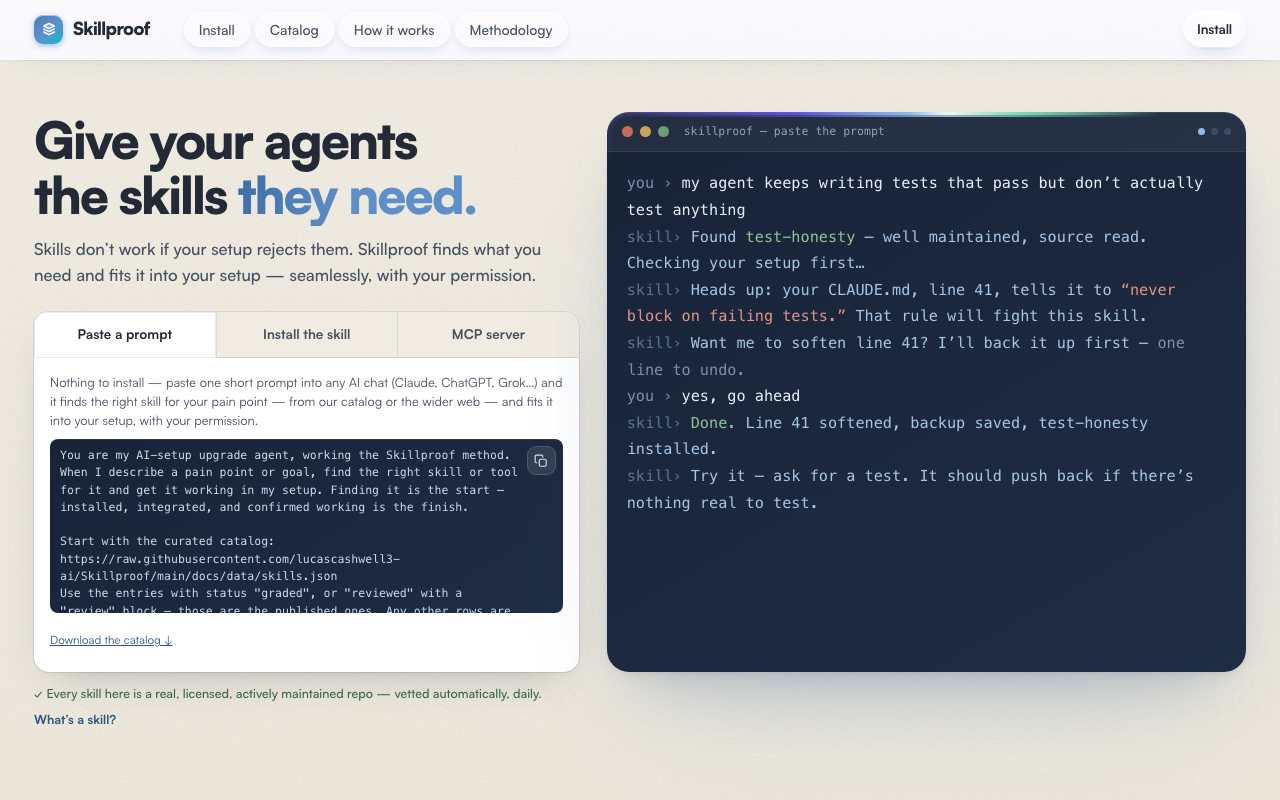
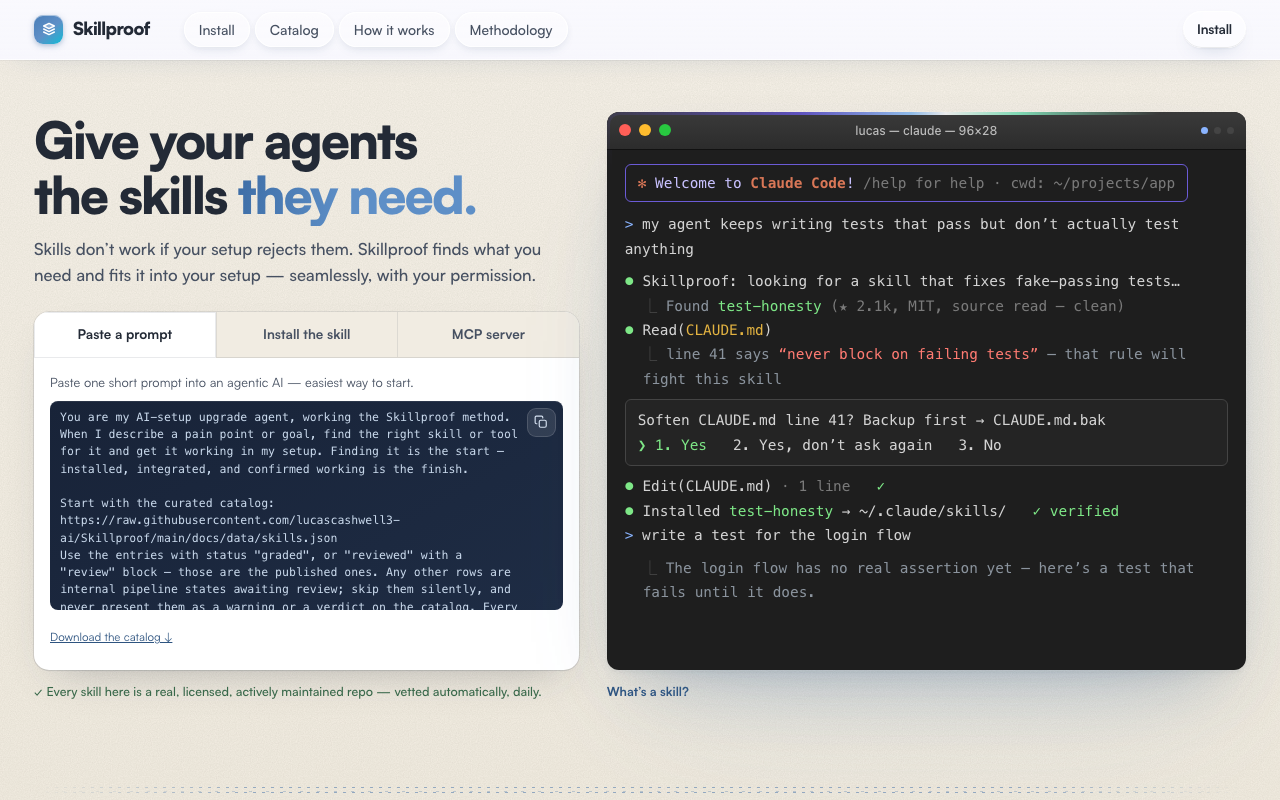
terminal = P1: Claude Code inside a macOS Terminal (real chrome, ⏺/⎿ tool lines, 1/2/3 permission menu), human prose, all three methods; 'Copied' toast restored; 'What's a skill?' under the terminal; prompt-tab copy

diff --git a/docs/assets/demo.js b/docs/assets/demo.js
@@ -15,42 +15,46 @@
 
   var SCRIPTS = {
     prompt: {
-      title: "skillproof — paste the prompt",
+      title: "lucas — claude — 96×28",
       lines: [
+        { t: "banner", html: '<b>✻</b> Welcome to <b>Claude Code</b>! <span class="dim">/help for help · cwd: ~/projects/app</span>' },
         { t: "you", type: true, html: "my agent keeps writing tests that pass but don’t actually test anything" },
-        { t: "sp", html: 'Found <span class="ok">test-honesty</span> — well maintained, source read. Checking your setup first…' },
-        { t: "sp", html: 'Heads up: your CLAUDE.md, line 41, tells it to <span class="warn">“never block on failing tests.”</span> That rule will fight this skill.' },
-        { t: "sp", html: 'Want me to soften line 41? I’ll back it up first — <span class="dim">one line to undo.</span>' },
-        { t: "you", type: true, html: "yes, go ahead" },
-        { t: "sp", html: '<span class="ok">Done.</span> Line 41 softened, backup saved, test-honesty installed.' },
-        { t: "sp", html: "Try it — ask for a test. It should push back if there’s nothing real to test." }
+        { t: "tool", html: 'Skillproof: looking for a skill that fixes fake-passing tests…' },
+        { t: "sub", html: 'Found <span class="ok">test-honesty</span> <span class="dim">(★ 2.1k, MIT, source read — clean)</span>' },
+        { t: "tool", html: 'Read(<span class="y">CLAUDE.md</span>)' },
+        { t: "sub", html: 'line 41 says <span class="warn">“never block on failing tests”</span> — that rule will fight this skill' },
+        { t: "ask", html: 'Soften CLAUDE.md line 41? Backup first → CLAUDE.md.bak<br><span class="opt">❯ 1. Yes</span> &nbsp; 2. Yes, don’t ask again &nbsp; 3. No' },
+        { t: "tool", html: 'Edit(CLAUDE.md) <span class="dim">· 1 line</span> &nbsp; <span class="ok">✓</span>' },
+        { t: "tool", html: 'Installed <span class="ok">test-honesty</span> → ~/.claude/skills/ &nbsp; <span class="ok">✓ verified</span>' },
+        { t: "you", type: true, html: "write a test for the login flow" },
+        { t: "sub", html: 'The login flow has no real assertion yet — here’s a test that fails until it does.' }
       ]
     },
     cli: {
-      title: "skillproof — install the skill",
+      title: "lucas — zsh — 96×28",
       lines: [
         { t: "sh", type: true, html: "for f in SKILL.md references/…; do curl -fsSL --create-dirs …/skills/skillproof/$f -o ~/.claude/skills/skillproof/$f; done" },
-        { t: "out", html: '<span class="ok">✓</span> SKILL.md <span class="dim">4.1 kB</span>' },
-        { t: "out", html: '<span class="ok">✓</span> references/consent.md · conflict-patterns.md · install-paths.md' },
-        { t: "out", html: '<span class="ok">✓</span> references/tiers.md · finding.md · security.md <span class="dim">— 7 files, nothing piped to a shell</span>' },
+        { t: "out", html: '<span class="ok">✓</span> SKILL.md · consent.md · conflict-patterns.md · install-paths.md · tiers.md · finding.md · security.md <span class="dim">— 7 files, nothing piped to a shell</span>' },
         { t: "sh", type: true, html: "claude" },
+        { t: "banner", html: '<b>✻</b> Welcome to <b>Claude Code</b>! <span class="dim">skill loaded: skillproof</span>' },
         { t: "you", type: true, html: "make my agent better at frontend design" },
-        { t: "sp", html: 'Found <span class="ok">impeccable</span> — source-read, clean. Read your setup: <span class="warn">2 conflicts</span> — a global style rule and an older design skill.' },
-        { t: "sp", html: 'Edit 1 of 2: retire <span class="hi">~/.claude/skills/design-old</span>. <span class="dim">Approve?</span>' },
-        { t: "you", type: true, html: "go ahead on both" },
-        { t: "sp", html: '<span class="ok">✓ Done, verified, undo ready.</span> One design skill loads now, not two fighting.' }
+        { t: "tool", html: 'Skillproof: found <span class="ok">impeccable</span> <span class="dim">(★ 4.3k, source read — clean)</span>' },
+        { t: "sub", html: 'Your setup has an older design skill and a global style rule that would clash' },
+        { t: "ask", html: 'Retire ~/.claude/skills/design-old and relax the style rule? Backups first<br><span class="opt">❯ 1. Yes, both</span> &nbsp; 2. Show me each &nbsp; 3. No' },
+        { t: "tool", html: 'Done <span class="dim">· 2 edits, 2 backups</span> &nbsp; <span class="ok">✓ verified</span> — one design skill loads now, not two fighting' }
       ]
     },
     mcp: {
-      title: "skillproof — as an MCP server",
+      title: "lucas — zsh — 96×28",
       lines: [
         { t: "sh", type: true, html: "claude mcp add skillproof -- node mcp/server.js" },
-        { t: "out", html: "✓ skillproof available as a tool in every session" },
+        { t: "out", html: '<span class="ok">✓</span> skillproof is now a tool in every session' },
+        { t: "sh", type: true, html: "claude" },
         { t: "you", type: true, html: "audit my setup — what’s conflicting?" },
-        { t: "sp", html: 'Read 4 files. <span class="warn">2 findings:</span> duplicate memory rules; a skill your CLAUDE.md overrides silently.' },
-        { t: "sp", html: "Want fixes? I’ll show each edit and ask before touching anything." },
-        { t: "you", type: true, html: "show me" },
-        { t: "sp", html: '<span class="hi">Edit 1 of 2:</span> merge the duplicate rule into one line. <span class="dim">Approve?</span>' }
+        { t: "tool", html: 'skillproof.audit() <span class="dim">· read 4 files</span>' },
+        { t: "sub", html: '<span class="warn">2 findings:</span> a duplicated memory rule; a skill your CLAUDE.md quietly overrides' },
+        { t: "ask", html: 'Fix them? I’ll show each edit before touching anything<br><span class="opt">❯ 1. Show me</span> &nbsp; 2. Fix both &nbsp; 3. Not now' },
+        { t: "tool", html: 'Edit 1 of 2 <span class="dim">· merge the duplicate rule into one line</span> &nbsp; <span class="dim">Approve?</span>' }
       ]
     }
   };

diff --git a/docs/assets/styles.css b/docs/assets/styles.css
@@ -194,7 +194,7 @@ kbd{font-family:var(--mono);font-size:.71rem;padding:2px 5px;border-radius:5px;b
 /* the first screen belongs to the hero — the catalog starts below the fold */
 .hero-lead{min-height:min(calc(100svh - 84px),760px);display:flex;align-items:start;padding-top:52px;padding-bottom:64px}
 .hero-split{flex:1;display:grid;grid-template-columns:minmax(0,.92fr) minmax(0,1.08fr);gap:28px;
-  align-items:stretch;scroll-margin-top:90px;grid-template-rows:1fr auto auto;row-gap:0}
+  align-items:stretch;scroll-margin-top:90px;grid-template-rows:1fr auto;row-gap:0}
 .hero-split > .hero-assure{grid-column:1;grid-row:2;margin-top:12px}
 .hero-panel{width:100%;text-align:left;display:flex;flex-direction:column;min-width:0}
 .hero-panel .installer{flex:1;display:flex;flex-direction:column}
@@ -240,34 +240,39 @@ kbd{font-family:var(--mono);font-size:.71rem;padding:2px 5px;border-radius:5px;b
   padding:1px 5px;border-radius:5px}
 .hero-assure{margin-top:12px;font-size:.78rem;color:var(--mint-d);font-weight:500}
 
-/* the living terminal */
-.term{position:relative;background:linear-gradient(150deg,#182338,#1E2C44);border-radius:var(--r-lg);
-  overflow:hidden;box-shadow:inset 0 1px 0 rgba(255,255,255,.10), var(--shadow-lg);
+/* the living terminal — P1: Claude Code inside a macOS Terminal window */
+.term{position:relative;background:#1E1E1E;border-radius:12px;
+  overflow:hidden;box-shadow:0 0 0 1px rgba(255,255,255,.08), var(--shadow-lg);
   display:flex;flex-direction:column;align-self:stretch}
-.term-bar{display:flex;align-items:center;gap:7px;padding:11px 15px;background:rgba(255,255,255,.05);
-  border-bottom:1px solid rgba(255,255,255,.08)}
-.tdot{width:11px;height:11px;border-radius:50%;flex:none}
-.tdot:nth-child(1){background:#C76A58}.tdot:nth-child(2){background:#C9A35C}.tdot:nth-child(3){background:#6F9C72}
-.term-title{margin-left:8px;font-size:.72rem;color:#8FA2BD;font-family:var(--mono)}
-.term-dots{margin-left:auto;display:flex;gap:6px}
-.mdot{width:7px;height:7px;border-radius:50%;background:#3A4C68;transition:background 300ms var(--ease-out)}
-.mdot.on{background:#8FBBE8}
-.term-body{padding:18px 20px 20px;font-family:var(--mono);font-size:.95rem;line-height:1.75;
-  flex:1;min-height:520px;overflow:hidden;color:#E8EDF5;
+.term-bar{display:flex;align-items:center;gap:8px;padding:0 12px;height:38px;position:relative;
+  background:linear-gradient(#3A3A3A,#2C2C2C);border-bottom:1px solid #111}
+.tdot{width:12px;height:12px;border-radius:50%;flex:none}
+.tdot:nth-child(1){background:#FF5F57}.tdot:nth-child(2){background:#FEBC2E}.tdot:nth-child(3){background:#28C840}
+.term-title{position:absolute;left:0;right:0;text-align:center;font:500 12px -apple-system,BlinkMacSystemFont,"Segoe UI",sans-serif;color:#BBB;pointer-events:none}
+.term-dots{margin-left:auto;display:flex;gap:6px;position:relative;z-index:1}
+.mdot{width:7px;height:7px;border-radius:50%;background:#444;transition:background 300ms var(--ease-out)}
+.mdot.on{background:#8AB4FF}
+.term-body{padding:14px 18px 18px;font-family:var(--mono);font-size:.9rem;line-height:1.7;
+  flex:1;min-height:520px;overflow:hidden;color:#D4D4D4;
   transition:opacity 340ms var(--ease-out),transform 340ms var(--ease-out)}
 /* 8: direction-aware swap — outgoing session slides toward the tab you left,
    incoming arrives from the tab you chose */
 .term-body.swap-l{opacity:0;transform:translateX(-56px)}
 .term-body.swap-r{opacity:0;transform:translateX(56px)}
 .tln{opacity:0;transform:translateY(4px);transition:opacity 320ms var(--ease-out),transform 320ms var(--ease-out);
-  min-height:1.75em}
+  min-height:1.7em}
 .tln.show{opacity:1;transform:none}
-.tln.you::before{content:"you  › ";color:#7C8EA9}
-.tln.sp{color:#A8C4E4}.tln.sp::before{content:"skill› ";color:#5A7396}
-.tln.sh{color:#E8EDF5}.tln.sh::before{content:"$ ";color:#8FBBE8}
-.tln.out{color:#8FA2BD}
-.tln .ok{color:#8FC491}.tln .warn{color:#E09383}.tln .dim{color:#7C8EA9}.tln .hi{color:#F2F5FA}
-.tcaret{display:inline-block;width:7px;height:14px;background:#A8C4E4;vertical-align:-2px;
+.tln.you{color:#D4D4D4;margin-bottom:8px}.tln.you::before{content:"> ";color:#8AB4FF}
+.tln.sh{color:#D4D4D4}.tln.sh::before{content:"$ ";color:#8AB4FF}
+.tln.tool{color:#D4D4D4}.tln.tool::before{content:"⏺ ";color:#7EE787}
+.tln.sub{color:#8B949E;padding-left:18px}.tln.sub::before{content:"⎿ ";color:#555}
+.tln.ask{margin:8px 0;padding:8px 12px;border:1px solid #444;border-radius:6px;background:#242424;color:#D4D4D4}
+.tln.ask .opt{color:#7EE787}
+.tln.out{color:#8B949E}
+.tln.banner{display:inline-block;border:1px solid #6B5BD6;border-radius:6px;padding:6px 12px;color:#C9C2FF;margin-bottom:10px}
+.tln.banner b{color:#D97757;font-weight:600}
+.tln .ok{color:#7EE787}.tln .warn{color:#FF7B72}.tln .dim{color:#7A7A7A}.tln .hi{color:#F2F5FA}.tln .y{color:#E3B341}
+.tcaret{display:inline-block;width:8px;height:15px;background:#D4D4D4;vertical-align:-2px;
   animation:tblink 1s steps(1) infinite}
 @keyframes tblink{50%{opacity:0}}
 @media (prefers-reduced-motion: reduce){
@@ -1058,7 +1063,7 @@ footer{margin-top:10px;padding:42px 0 20px;
 .btn:disabled:hover,.copy:disabled:hover{transform:none}
 
 /* what's a skill — one small plain-English card, folded by default */
-.whatis{grid-column:1;grid-row:3;padding:6px 0 0;font-size:.78rem;color:var(--ink-2)}
+.whatis{grid-column:2;grid-row:2;padding:12px 0 0;font-size:.78rem;color:var(--ink-2)}
 .whatis summary{cursor:pointer;color:var(--violet-d);font-weight:700;list-style:none;display:inline-block}
 .whatis[open] summary{margin-bottom:6px}
 .whatis p{line-height:1.5;margin:0 0 6px}

diff --git a/docs/index.html b/docs/index.html
@@ -13,7 +13,7 @@
   <link rel="preconnect" href="https://api.fontshare.com" />
   <link rel="preconnect" href="https://cdn.fontshare.com" crossorigin />
   <link href="https://api.fontshare.com/v2/css?f[]=satoshi@400,500,700,900&f[]=jetbrains-mono@400,500,600&display=swap" rel="stylesheet" />
-  <link rel="stylesheet" href="assets/styles.css?v=30" />
+  <link rel="stylesheet" href="assets/styles.css?v=31" />
 </head>
 <body>
 
@@ -80,9 +80,7 @@
           </div>
 
           <div class="inst-pane on" id="instPane-prompt" role="tabpanel" data-pane="prompt" aria-labelledby="instTab-prompt">
-            <p>Nothing to install &mdash; paste one short prompt into any AI chat (Claude, ChatGPT, Grok…) and
-            it finds the right skill for your pain point &mdash; from our catalog or the
-            wider web &mdash; and fits it into your setup, with your permission.</p>
+            <p>Paste one short prompt into an agentic AI &mdash; easiest way to start.</p>
             <div class="cmdwrap"><textarea id="promptText" readonly rows="3" aria-label="Advisor prompt" class="inst-prompt"></textarea><button class="copy" id="copyPrompt" type="button" aria-label="Copy prompt"><svg width="14" height="14" viewBox="0 0 24 24" fill="none" stroke="currentColor" stroke-width="2" stroke-linecap="round" stroke-linejoin="round"><rect x="9" y="9" width="12" height="12" rx="2.5"/><path d="M5 15H4a2 2 0 0 1-2-2V4a2 2 0 0 1 2-2h9a2 2 0 0 1 2 2v1"/></svg></button></div>
             <p class="inst-fine"><a href="data/skills.json" download="skillproof-catalog.json">Download the catalog ↓</a>
               <span class="prompt-status" id="copyStatus" role="status" aria-live="polite"></span></p>
@@ -121,7 +119,7 @@
       <div class="term" id="term">
         <div class="term-bar">
           <span class="tdot"></span><span class="tdot"></span><span class="tdot"></span>
-          <span class="term-title" id="termTitle">skillproof — paste the prompt</span>
+          <span class="term-title" id="termTitle">lucas — claude — 96×28</span>
           <span class="term-dots" id="termDots" aria-hidden="true">
             <span class="mdot on"></span><span class="mdot"></span><span class="mdot"></span>
           </span>
@@ -312,7 +310,7 @@
 
 <div class="toast" id="toast" role="status" aria-live="polite"></div>
 
-<script src="assets/demo.js?v=5" defer></script>
-<script src="assets/app.js?v=100"></script>
+<script src="assets/demo.js?v=6" defer></script>
+<script src="assets/app.js?v=101"></script>
 </body>
 </html>

diff --git a/docs/assets/app.js b/docs/assets/app.js
@@ -885,7 +885,7 @@
     $("#copyPrompt").addEventListener("click", function () {
       try {
         if (navigator.clipboard) navigator.clipboard.writeText($("#promptText").value);
-        $("#copyStatus").textContent = "Copied — paste it into any Claude chat.";
+        toast("Copied — paste it into any AI chat.");
         $("#copyPrompt").classList.add("done");
         setTimeout(function () { $("#copyPrompt").classList.remove("done"); }, 1600);
       } catch (err) {}
